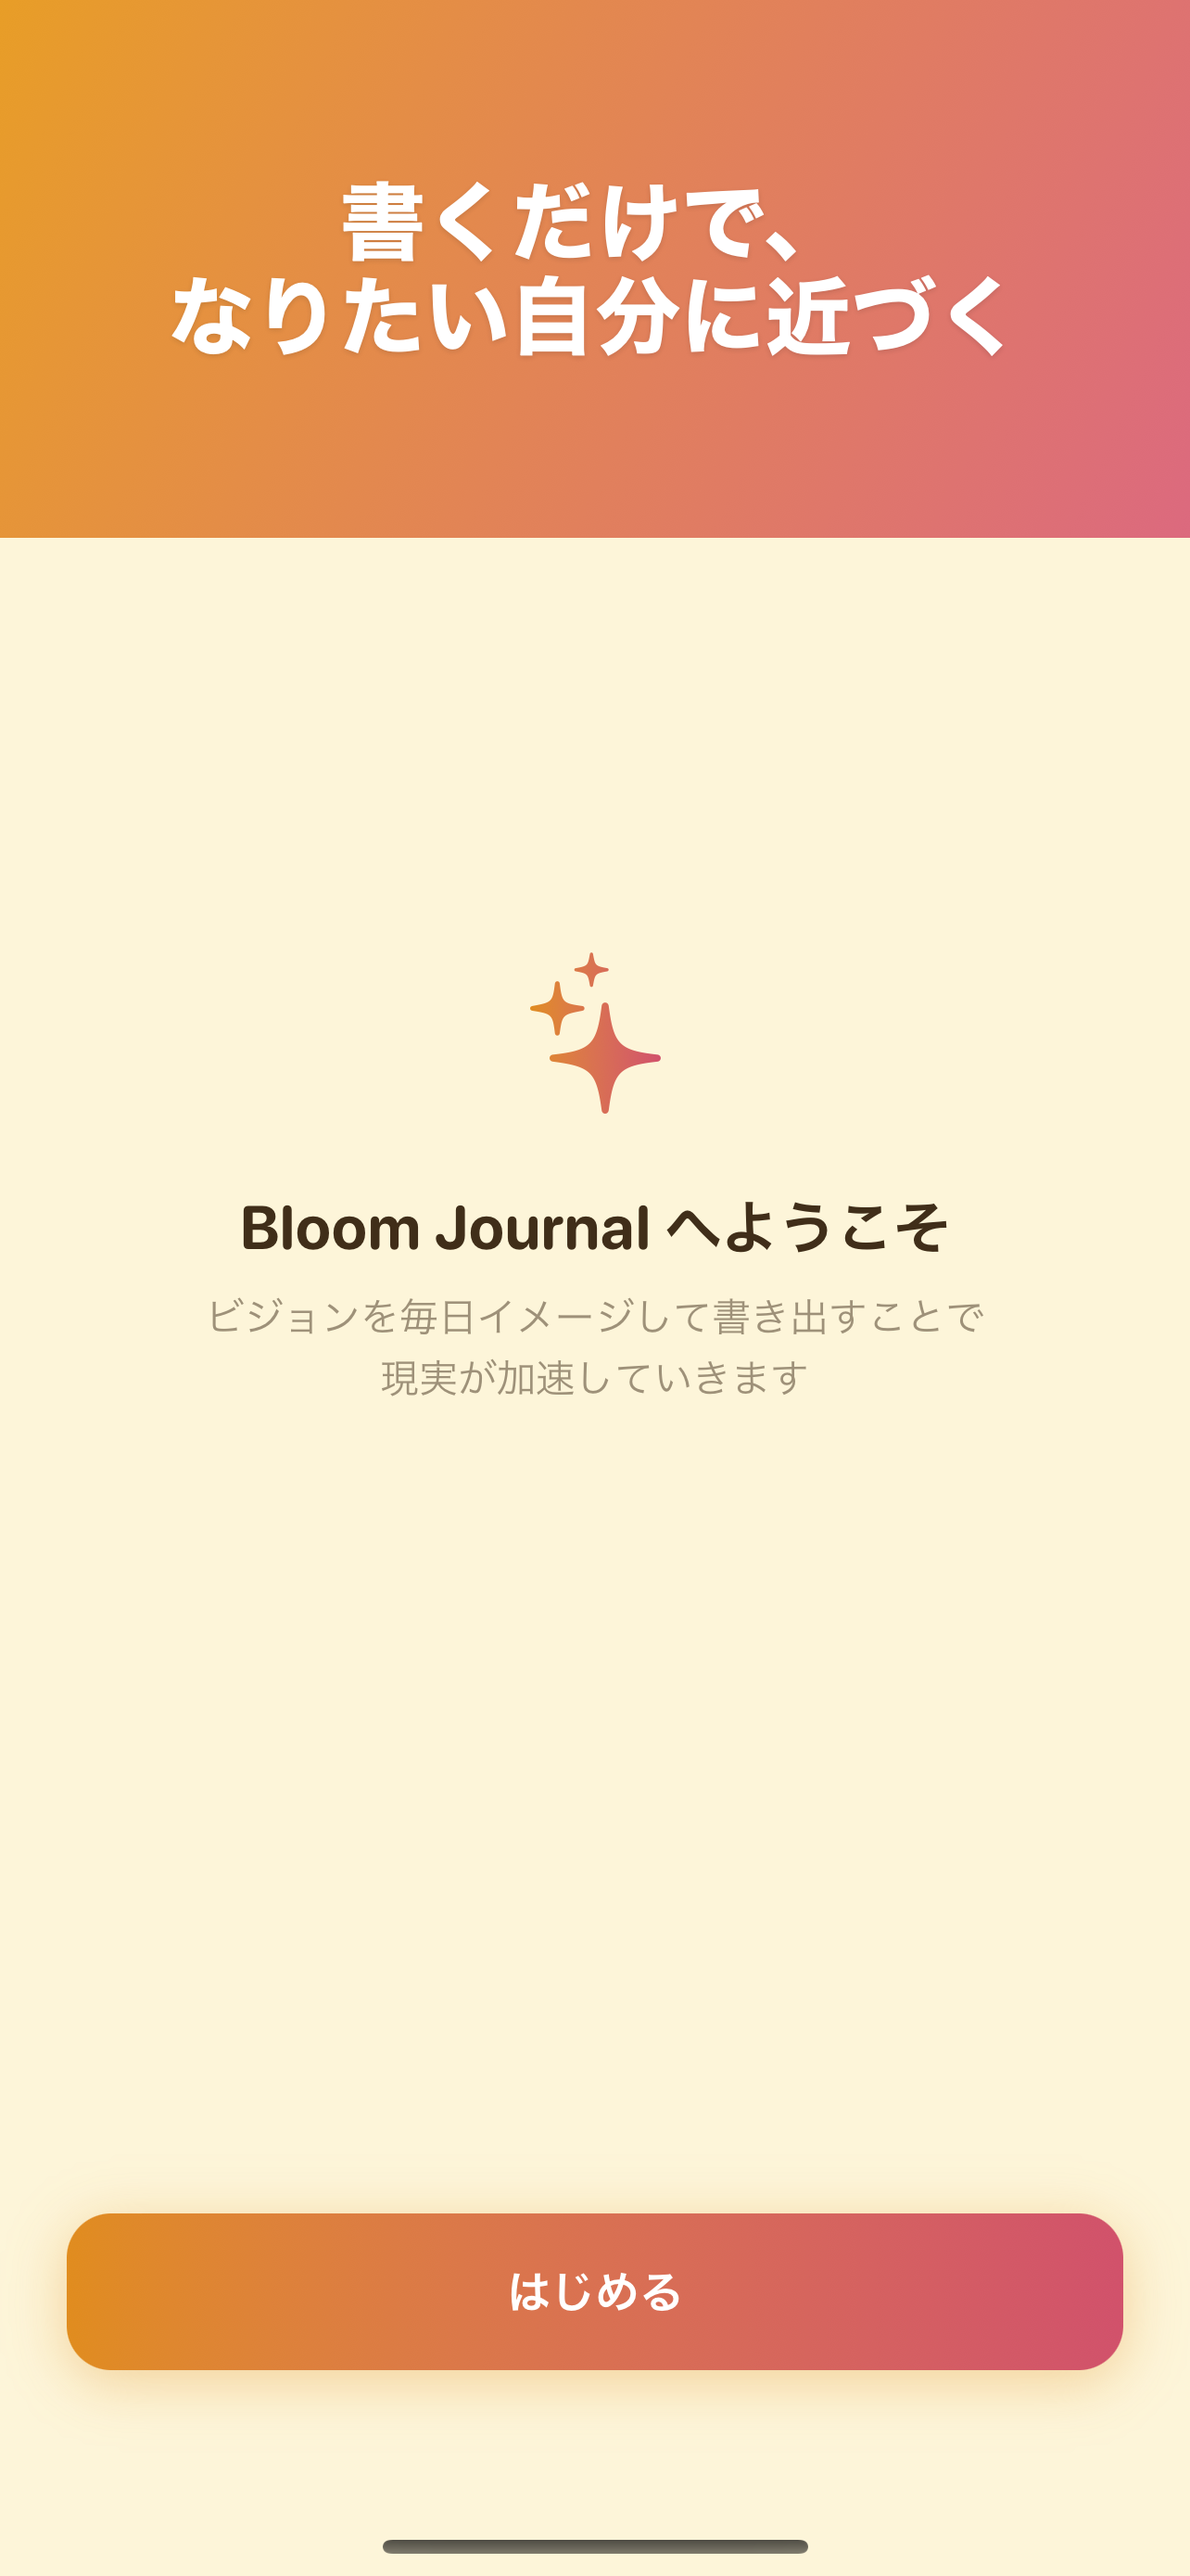
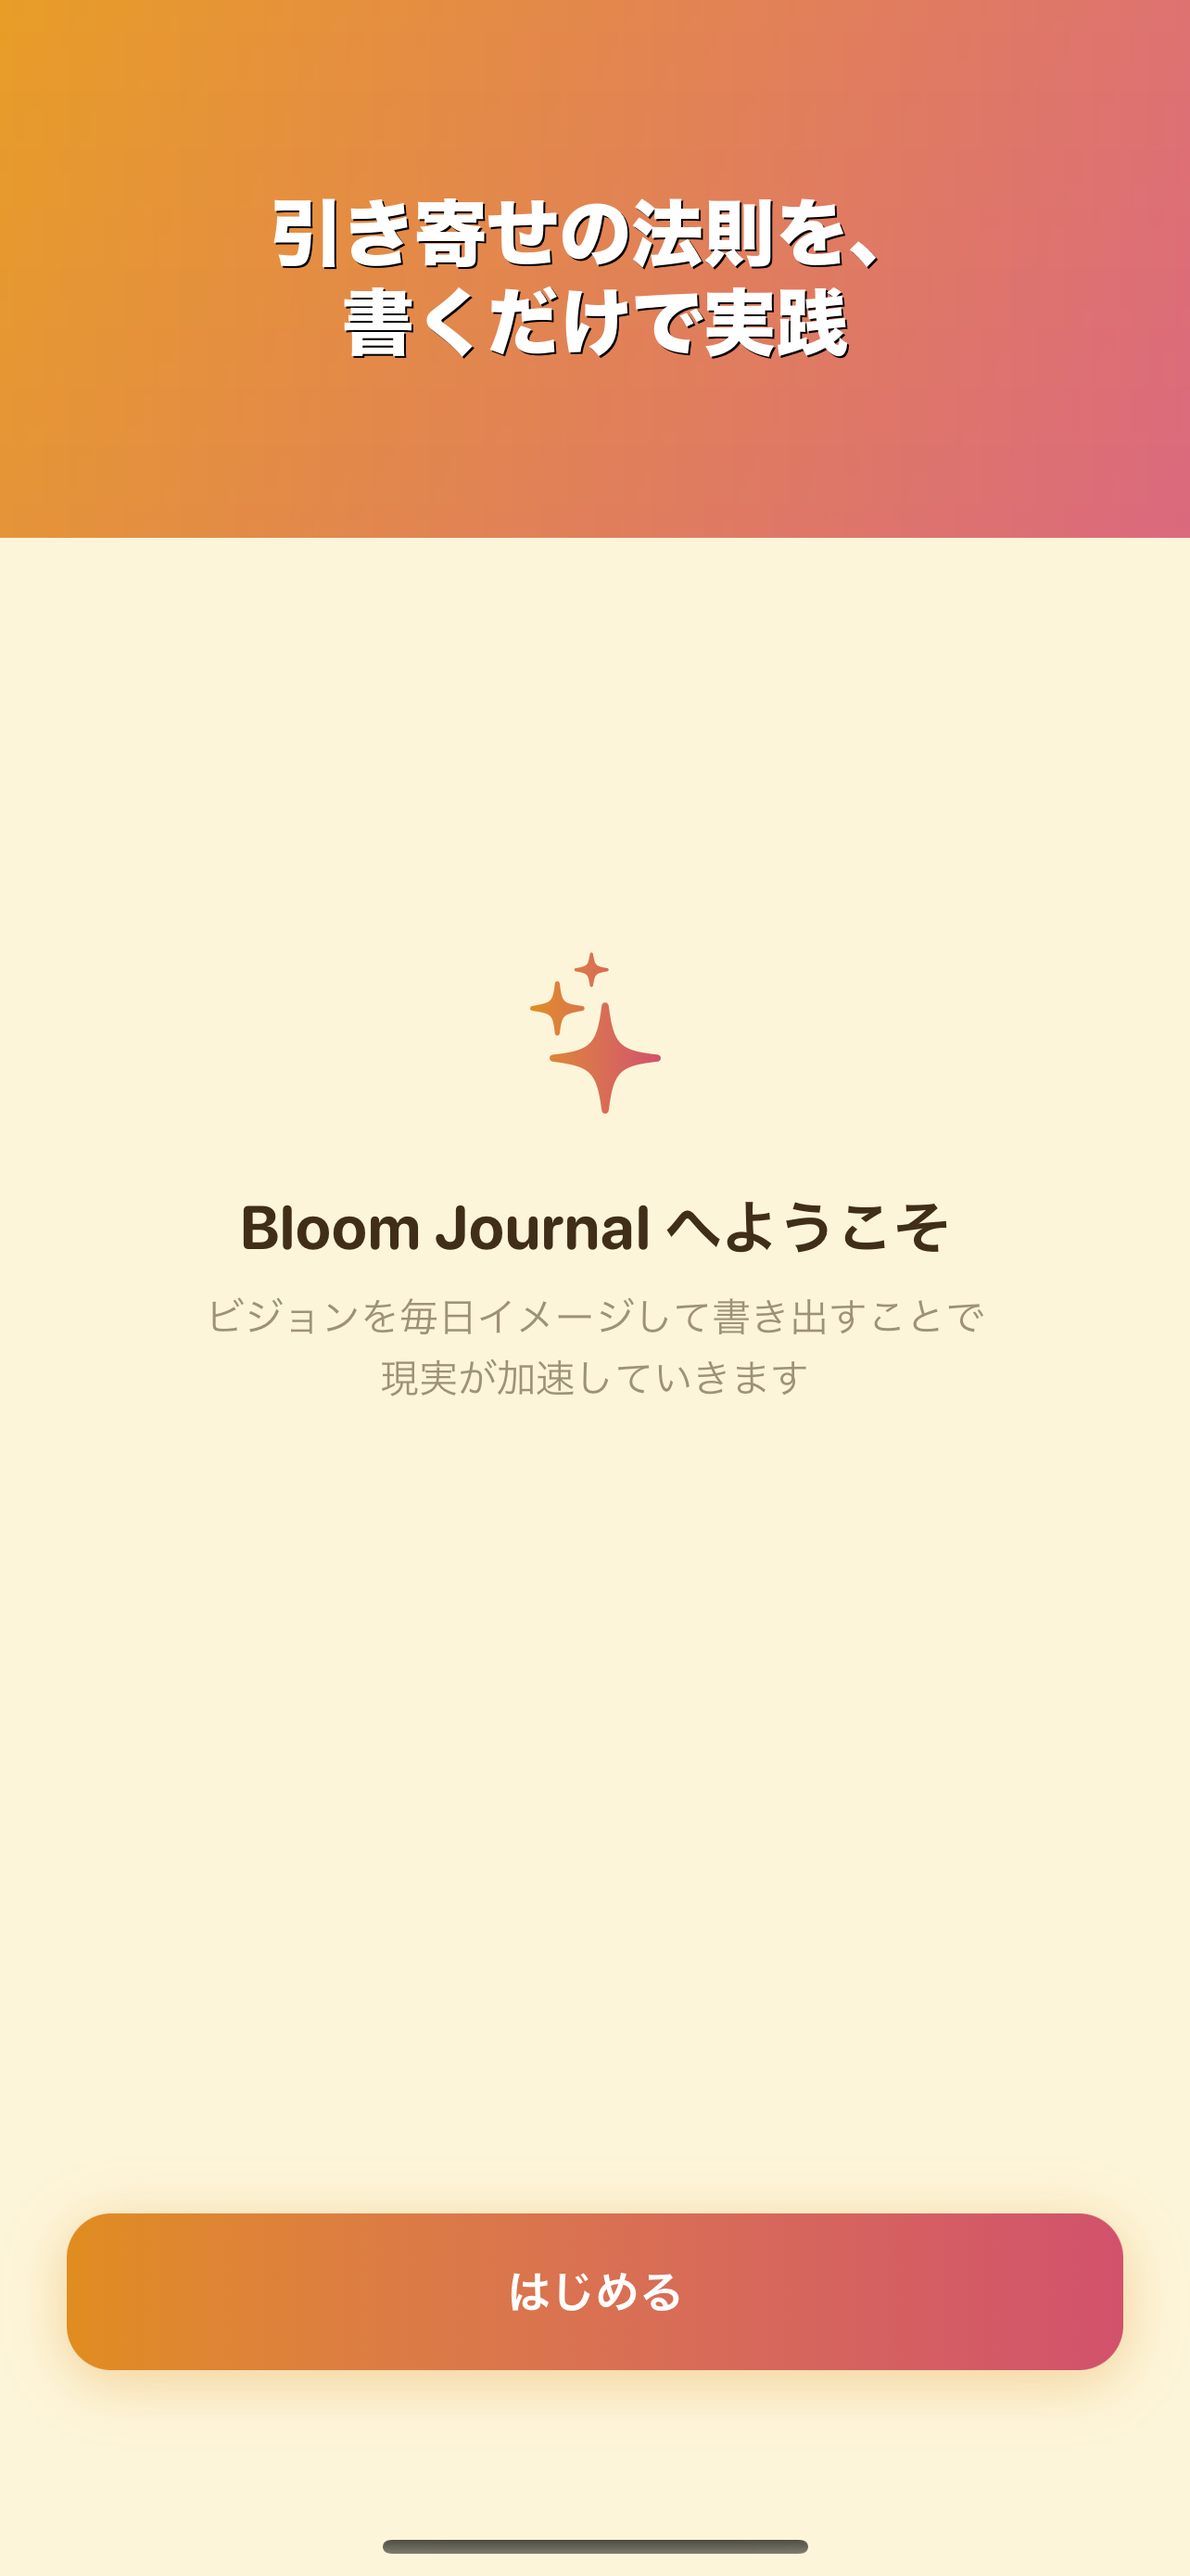
feat: ヒーロー画像の見出しに「引き寄せの法則」を明示(ASO)
1枚目(検索結果のサムネイルに使われる最重要スロット)の見出しが
「書くだけで、なりたい自分に近づく」/「Write it down. Watch it happen.」
のままで、サブタイトルには既にある「引き寄せの法則」「Law of attraction」
が1枚目には一度も出てこなかった。

キーワード欄は日英とも100/100文字で既に埋まっており(既存のASO施策の
成果、aso-rollout-confirmed-effective参照)、これ以上の追加は既存語の
入れ替えが必要なため今回は見送る。差し替えたのはヒーロー画像の見出し
テキストのみ。

- ja: 「書くだけで、なりたい自分に近づく」→「引き寄せの法則を、書くだけで実践」
- en: 「Write it down. Watch it happen.」→「Practice the Law of Attraction by writing」

グラデーション帯の色・フォント(ヒラギノ角ゴシックW8 / Avenir Next Heavy)は
既存の他スクリーンショットと揃えてある。scripts/update_hero_caption*.py は
その場しのぎでなく再実行できるよう残してある。

Changed region(s): [[0.1558, 0.0619, 0.8411, 0.1548]]

diff --git a/scripts/update_hero_caption.py b/scripts/update_hero_caption.py
@@ -1,0 +1,70 @@
+#!/usr/bin/env python3
+"""Re-render the gradient headline banner on the hero (first) App Store
+screenshot, keeping the underlying app UI screenshot untouched below it.
+
+The banner's gradient and text position/size are sampled/estimated from the
+existing captioned image so the new copy matches the established style.
+"""
+from PIL import Image, ImageDraw, ImageFont
+
+SRC = "/Users/takayanagi/Develop/BloomJournal/BloomJournal_Screenshots/ja_captioned/01_welcome_ja.png"
+DST = SRC  # overwrite in place; caller should review before committing
+
+BAND_HEIGHT = 578
+FONT_PATH = "/System/Library/Fonts/ヒラギノ角ゴシック W8.ttc"
+FONT_SIZE = 78
+LINE_SPACING = 18
+
+# Sampled corners of the existing diagonal gradient band.
+TL = (232, 157, 39)
+TR = (222, 114, 113)
+BL = (229, 148, 56)
+BR = (219, 105, 126)
+
+LINES = ["引き寄せの法則を、", "書くだけで実践"]
+
+
+def lerp(a, b, t):
+    return tuple(round(a[i] + (b[i] - a[i]) * t) for i in range(3))
+
+
+def make_gradient(w, h):
+    img = Image.new("RGB", (w, h))
+    px = img.load()
+    for y in range(h):
+        ty = y / (h - 1)
+        left = lerp(TL, BL, ty)
+        right = lerp(TR, BR, ty)
+        for x in range(w):
+            tx = x / (w - 1)
+            px[x, y] = lerp(left, right, tx)
+    return img
+
+
+def main():
+    img = Image.open(SRC).convert("RGB")
+    w, h = img.size
+
+    band = make_gradient(w, BAND_HEIGHT)
+    img.paste(band, (0, 0))
+
+    draw = ImageDraw.Draw(img)
+    font = ImageFont.truetype(FONT_PATH, FONT_SIZE)
+
+    total_h = len(LINES) * FONT_SIZE + (len(LINES) - 1) * LINE_SPACING
+    y = (BAND_HEIGHT - total_h) // 2 + 10
+    for line in LINES:
+        bbox = draw.textbbox((0, 0), line, font=font)
+        line_w = bbox[2] - bbox[0]
+        x = (w - line_w) // 2
+        # subtle shadow for legibility, then the white headline itself
+        draw.text((x + 2, y + 2), line, font=font, fill=(0, 0, 0, 60))
+        draw.text((x, y), line, font=font, fill=(255, 255, 255))
+        y += FONT_SIZE + LINE_SPACING
+
+    img.save(DST)
+    print(f"wrote {DST} ({w}x{h})")
+
+
+if __name__ == "__main__":
+    main()

diff --git a/scripts/update_hero_caption_en.py b/scripts/update_hero_caption_en.py
@@ -1,0 +1,69 @@
+#!/usr/bin/env python3
+"""Same treatment as update_hero_caption.py, for the English hero screenshot."""
+from PIL import Image, ImageDraw, ImageFont
+
+SRC = "/Users/takayanagi/Develop/BloomJournal/BloomJournal_Screenshots/en/captioned/01_welcome_en.png"
+DST = SRC
+
+BAND_HEIGHT = 578
+FONT_PATH = "/System/Library/Fonts/Avenir Next.ttc"
+FONT_INDEX = 8  # Heavy
+FONT_SIZE = 76
+LINE_SPACING = 16
+
+TL = (232, 157, 39)
+TR = (222, 114, 113)
+BL = (229, 148, 56)
+BR = (219, 105, 126)
+
+LINES = ["Practice the Law of", "Attraction by writing"]
+
+
+def lerp(a, b, t):
+    return tuple(round(a[i] + (b[i] - a[i]) * t) for i in range(3))
+
+
+def make_gradient(w, h):
+    img = Image.new("RGB", (w, h))
+    px = img.load()
+    for y in range(h):
+        ty = y / (h - 1)
+        left = lerp(TL, BL, ty)
+        right = lerp(TR, BR, ty)
+        for x in range(w):
+            tx = x / (w - 1)
+            px[x, y] = lerp(left, right, tx)
+    return img
+
+
+def load_font():
+    return ImageFont.truetype(FONT_PATH, FONT_SIZE, index=FONT_INDEX)
+
+
+def main():
+    img = Image.open(SRC).convert("RGB")
+    w, h = img.size
+
+    band = make_gradient(w, BAND_HEIGHT)
+    img.paste(band, (0, 0))
+
+    draw = ImageDraw.Draw(img)
+    font = load_font()
+    print("using font:", font.getname())
+
+    total_h = len(LINES) * FONT_SIZE + (len(LINES) - 1) * LINE_SPACING
+    y = (BAND_HEIGHT - total_h) // 2 + 10
+    for line in LINES:
+        bbox = draw.textbbox((0, 0), line, font=font)
+        line_w = bbox[2] - bbox[0]
+        x = (w - line_w) // 2
+        draw.text((x + 2, y + 2), line, font=font, fill=(0, 0, 0, 60))
+        draw.text((x, y), line, font=font, fill=(255, 255, 255))
+        y += FONT_SIZE + LINE_SPACING
+
+    img.save(DST)
+    print(f"wrote {DST} ({w}x{h})")
+
+
+if __name__ == "__main__":
+    main()
